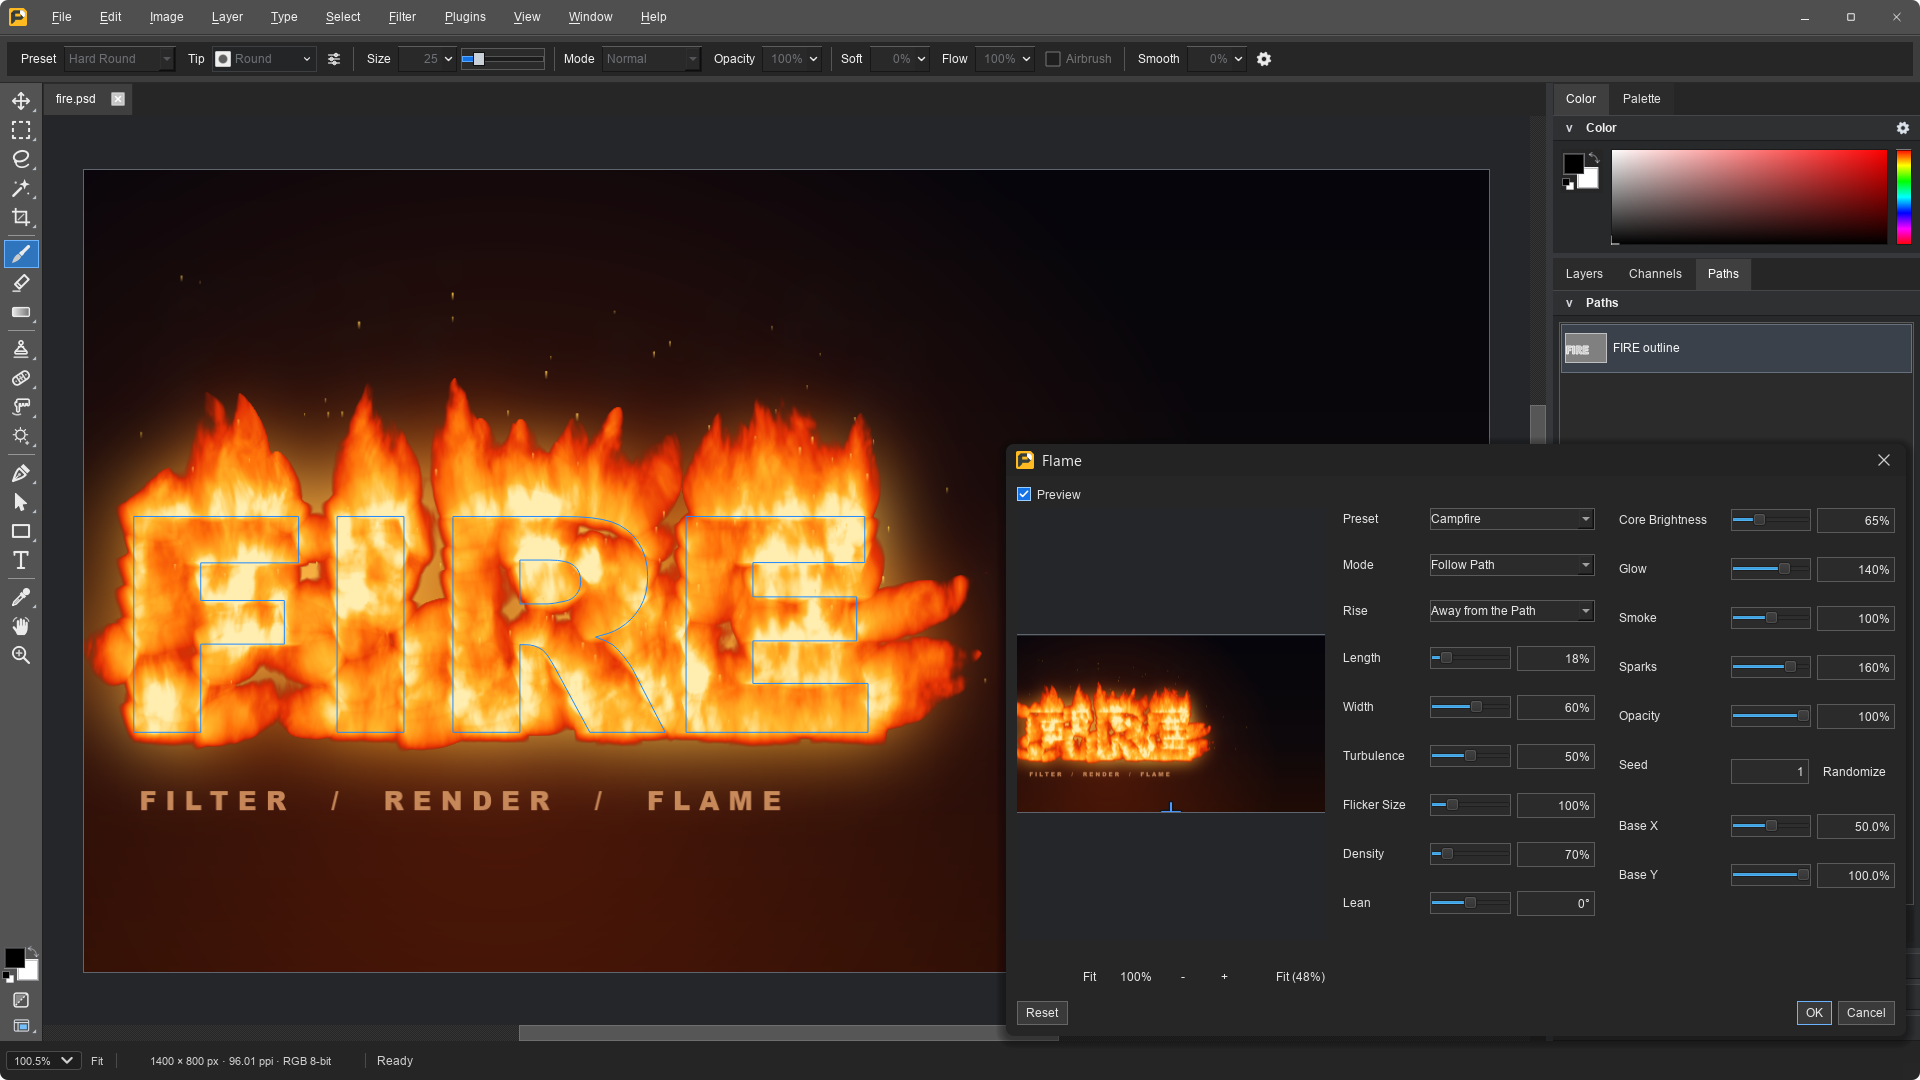
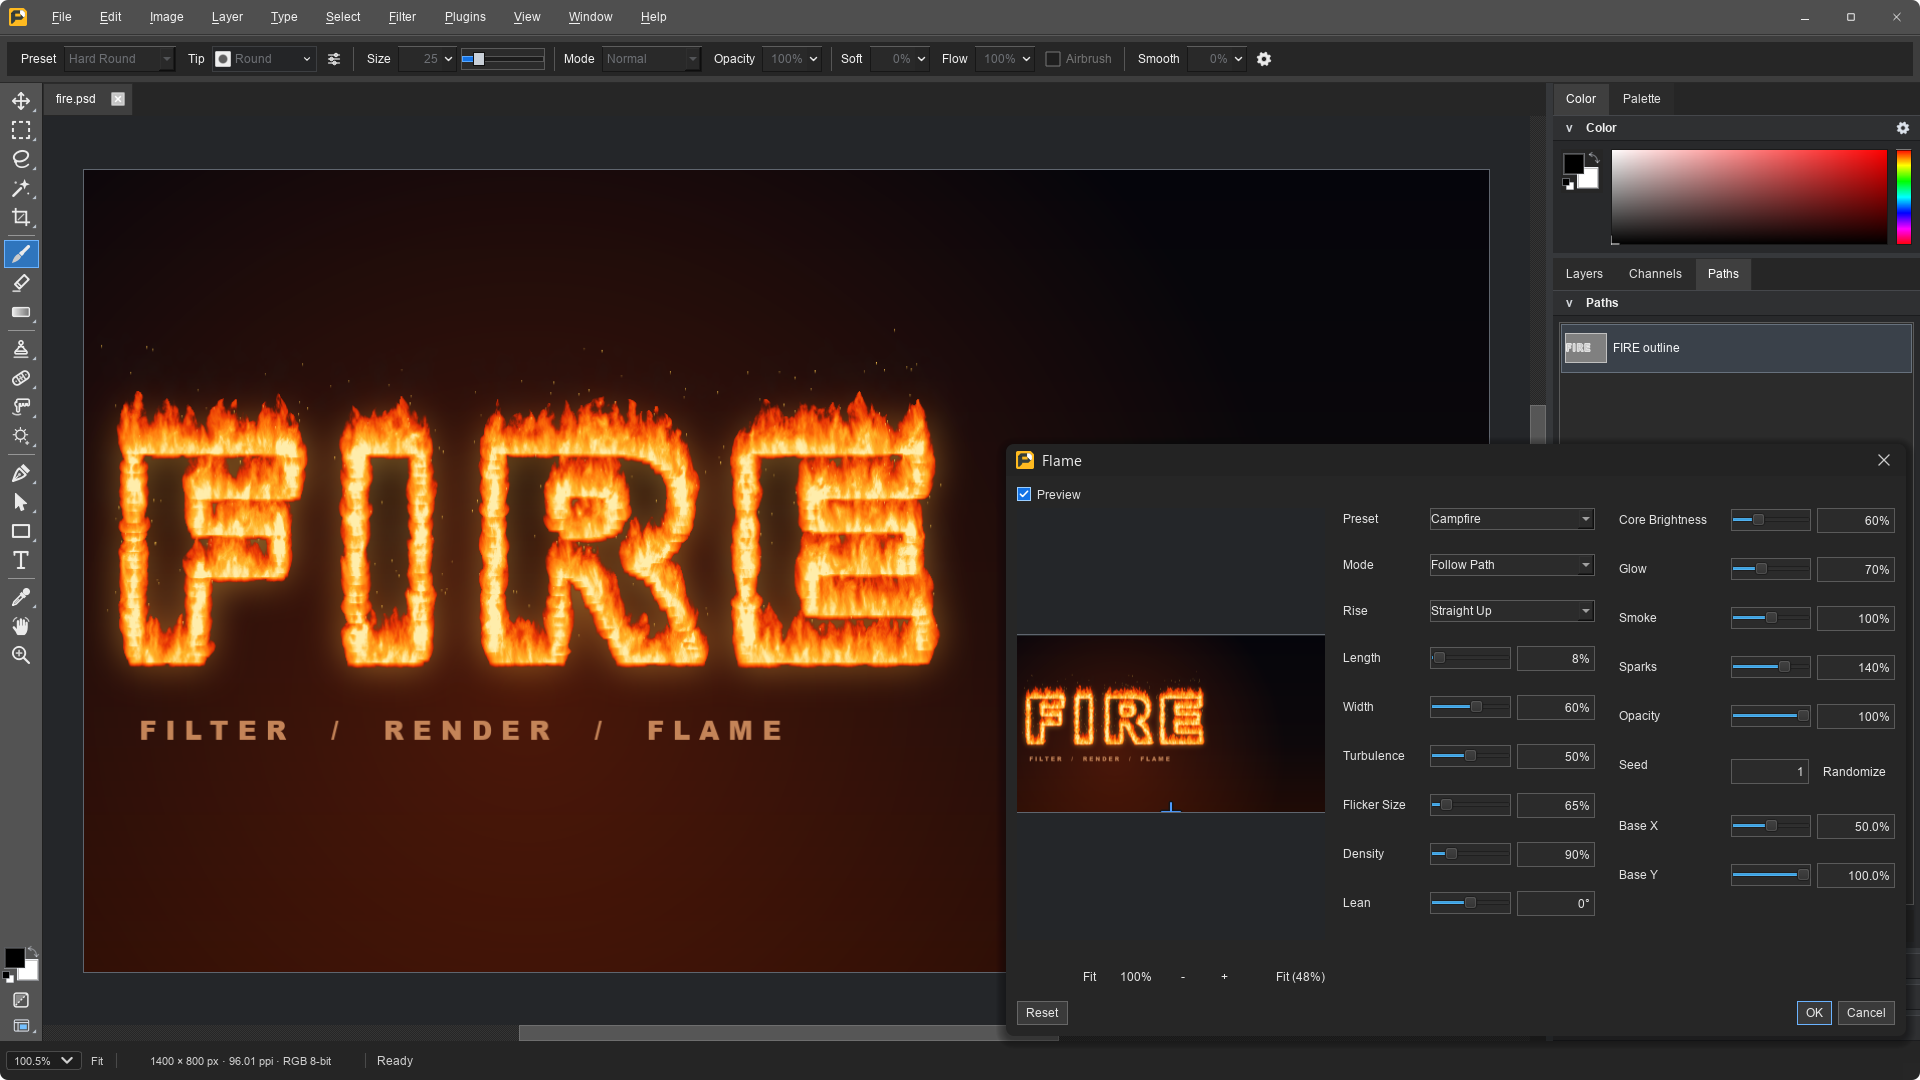
Flame README shot: shorter flames on spaced letters, path outline hidden

Changed region(s): [[0.0312, 0.3361, 0.6562, 0.7639], [0.75, 0.55, 0.7812, 0.5806]]

diff --git a/tests/ui/readme_screenshot_tests_showcase.cpp b/tests/ui/readme_screenshot_tests_showcase.cpp
@@ -444,8 +444,8 @@ bool same_rgba_pixels(const patchy::PixelBuffer& a, const patchy::PixelBuffer& b
 }
 
 // Flame following a path: the word FIRE in charred Arial Black on a night backdrop, its
-// outline saved in the Paths panel, and the Flame dialog previewing Campfire along that
-// path, live on the canvas and in the dialog's own preview.
+// outline saved in the Paths panel (its canvas outline hidden), and the Flame dialog
+// previewing short Campfire flames along that path, live on the canvas and in the dialog.
 void shot_readme_flame() {
   patchy::test::register_test_fonts(patchy::test::TestFontRole::ArialBlack);
   // Offscreen, ariblk.ttf registers as the Black style of Arial (its typographic family).
@@ -459,11 +459,13 @@ void shot_readme_flame() {
     font.setPixelSize(pixel_size);
     return font;
   };
-  const auto letters = arial_black(300);
+  auto letters = arial_black(290);
+  // Spaced so neighboring letters' flames stay apart.
+  letters.setLetterSpacing(QFont::AbsoluteSpacing, 26.0);
   QPainterPath outline;
   outline.addText(QPointF(0.0, 0.0), letters, QStringLiteral("FIRE"));
   const auto glyphs = outline.boundingRect();
-  outline.translate(50.0 - glyphs.left(), 560.0 - glyphs.bottom());
+  outline.translate(50.0 - glyphs.left(), 490.0 - glyphs.bottom());
   const auto box = outline.boundingRect();
 
   QImage night(kFireWidth, kFireHeight, QImage::Format_RGBA8888);
@@ -508,6 +510,11 @@ void shot_readme_flame() {
   auto* paths_list = window.findChild<QListWidget*>(QStringLiteral("pathsList"));
   CHECK(paths_list != nullptr && paths_list->count() == 1);
   paths_list->setCurrentRow(0);
+  // The path stays selected for Follow Path, but its outline would draw over the fire.
+  // View > Show > Target Path is not persisted, so nothing needs restoring.
+  auto* target_path = require_action(window, "viewToggleTargetPathAction");
+  CHECK(target_path->isChecked());
+  target_path->trigger();
   QApplication::processEvents();
 
   const auto layer_pixels = [&window] {
@@ -527,23 +534,24 @@ void shot_readme_flame() {
       CHECK(dialog != nullptr);
       auto* preset = dialog->findChild<QComboBox*>(QStringLiteral("filterFlameColorsCombo"));
       auto* mode = dialog->findChild<QComboBox*>(QStringLiteral("filterFlameModeCombo"));
-      auto* rise = dialog->findChild<QComboBox*>(QStringLiteral("filterFlameRiseCombo"));
       auto* length = dialog->findChild<QSpinBox*>(QStringLiteral("filterLengthSpin"));
       auto* core = dialog->findChild<QSpinBox*>(QStringLiteral("filterCoreSpin"));
+      auto* flicker = dialog->findChild<QSpinBox*>(QStringLiteral("filterFlickerSpin"));
       auto* density = dialog->findChild<QSpinBox*>(QStringLiteral("filterDensitySpin"));
       auto* glow = dialog->findChild<QSpinBox*>(QStringLiteral("filterGlowSpin"));
       auto* sparks = dialog->findChild<QSpinBox*>(QStringLiteral("filterSparksSpin"));
       auto* notice = dialog->findChild<QLabel*>(QStringLiteral("filterDialogNotice"));
-      CHECK(preset != nullptr && mode != nullptr && rise != nullptr && length != nullptr && core != nullptr && density != nullptr &&
-            glow != nullptr && sparks != nullptr && notice != nullptr);
+      CHECK(preset != nullptr && mode != nullptr && length != nullptr && flicker != nullptr && density != nullptr &&
+            core != nullptr && glow != nullptr && sparks != nullptr && notice != nullptr);
       preset->setCurrentIndex(preset->findData(QStringLiteral("classic")));
       mode->setCurrentIndex(mode->findData(QStringLiteral("follow_path")));
-      rise->setCurrentIndex(rise->findData(QStringLiteral("from_path")));
-      length->setValue(18);
-      density->setValue(70);
-      core->setValue(65);
-      glow->setValue(140);
-      sparks->setValue(160);
+      // Short, fine tongues and a dim glow keep the charred letters readable.
+      length->setValue(8);
+      flicker->setValue(65);
+      density->setValue(90);
+      core->setValue(60);
+      glow->setValue(70);
+      sparks->setValue(140);
       QApplication::processEvents();
       CHECK(!notice->isVisibleTo(dialog));
       dialog->resize(900, 560);

diff --git a/README.md b/README.md
@@ -137,7 +137,7 @@ See it in action.  Click an image for the full-size capture.
     <td valign="top" width="50%"><a href="docs/images/screenshots/gmic.png"><img src="docs/images/screenshots/gmic.png" width="460" alt="The G'MIC Filter Library with Rodilius selected among the Artistic filters, its settings beside the list, and a live preview on the right half of a Havana street photo, with the original on the left."></a><br><strong>Nearly 400 G'MIC filters</strong><br>Browse the G'MIC library, adjust the settings, and watch the result render live on your canvas. Here Rodilius runs inside a selection, with the original photo on the left.</td>
   </tr>
   <tr>
-    <td valign="top" width="50%"><a href="docs/images/screenshots/flame.png"><img src="docs/images/screenshots/flame.png" width="460" alt="The word FIRE burning on a night background, with flames rising from the letter outlines, the letters' path in the Paths panel, and the Flame dialog set to Campfire, Follow Path and Away from the Path with its own preview."></a><br><strong>Set your paths on fire</strong><br>Flame grows fire along any path, here the outline of the word FIRE. Pick from 14 presets and tune length, turbulence, glow, smoke and sparks with a live preview.</td>
+    <td valign="top" width="50%"><a href="docs/images/screenshots/flame.png"><img src="docs/images/screenshots/flame.png" width="460" alt="The word FIRE burning on a night background, with short flames licking up from the outlines of dark charred letters, the letters' path in the Paths panel, and the Flame dialog set to Campfire and Follow Path with its own preview."></a><br><strong>Set your paths on fire</strong><br>Flame grows fire along any path, here the outline of the word FIRE. Pick from 14 presets and tune length, turbulence, glow, smoke and sparks with a live preview.</td>
     <td valign="top" width="50%"><a href="docs/images/screenshots/web_export.png"><img src="docs/images/screenshots/web_export.png" width="460" alt="Export for Web making an animated GIF of San Francisco going from afternoon to blue hour, paused on frame 4 of 8, with a split view comparing the original and the 16-color dithered result and the encoded size of every format."></a><br><strong>Export for the web</strong><br>Compare JPEG, WebP, AVIF, JPEG XL, PNG and GIF by their real encoded sizes, with a split view against the original. Layers can become an animated GIF that plays in the preview.</td>
   </tr>
   <tr>

diff --git a/docs/screenshots.md b/docs/screenshots.md
@@ -120,7 +120,7 @@ Click any image to inspect it at full size. These are captures of the real edito
     </td>
 </tr>
 <tr>
-<td align="center" valign="top" colspan="2"><a href="images/screenshots/flame.png"><img src="images/screenshots/flame.png" width="860" alt="The word FIRE burning on a night background, with flames rising from the letter outlines, the letters' path selected in the Paths panel, and the Flame dialog set to Campfire, Follow Path and Away from the Path with its own preview"></a><br><sub>Flame: fire grows along the selected path, here the outline of the word FIRE, previewed live on the canvas and in the dialog. 14 presets, with length, turbulence, glow, smoke and sparks to tune</sub></td>
+<td align="center" valign="top" colspan="2"><a href="images/screenshots/flame.png"><img src="images/screenshots/flame.png" width="860" alt="The word FIRE burning on a night background, with short flames licking up from the outlines of dark charred letters, the letters' path selected in the Paths panel, and the Flame dialog set to Campfire and Follow Path with its own preview"></a><br><sub>Flame: fire grows along the selected path, here the outline of the word FIRE, previewed live on the canvas and in the dialog. 14 presets, with length, turbulence, glow, smoke and sparks to tune</sub></td>
 </tr>
 <tr>
 <td align="center" valign="top" colspan="2"><a href="images/screenshots/layered_import.png"><img src="images/screenshots/layered_import.png" width="860" alt="Why settle for only .psd? An introduction above eight labeled artboards in a 4 by 2 grid: Photoshop game artwork, Affinity game tips, a Krita character painting, a GIMP planet illustration, an OpenRaster city poster, a Paint.NET landscape, a layered TIFF print design, and Aseprite pixel art"></a><br><sub>Eight layer formats, one document: PSD/PSB, Affinity, Krita, GIMP, OpenRaster, Paint.NET, layered TIFF, and Aseprite, each with different artwork and its own imported layer stack. Editable SVG and PDF imports are also supported.</sub></td>

diff --git a/docs/readme-showcase.md b/docs/readme-showcase.md
@@ -137,12 +137,13 @@ a slow push in, lit windows at night; the last layer's name holds it for a secon
 at 16 colors with diffusion (few enough that the dither shows in the split) and Split compare through the exportForWeb settings (restored
 afterward), waits for all eight decoded frames and pauses on frame 4.
 
-The Flame scene (same file) paints FIRE in charred Arial Black (the scene skips without the font) on a
-generated night backdrop, saves the glyph outline as the FIRE outline path and selects it in the Paths panel,
-then opens the real Flame dialog on Campfire with Follow Path and Away from the Path (crisper letters than
-Straight Up, which fills the strokes), lower density and core, and more glow and sparks.
-It waits for the live canvas preview, checks that the far corner stays unburned and that Cancel restores the
-layer, and draws the dialog's caption with `readme_captioned_dialog`, since the native frame is not grabbed.
+The Flame scene (same file) paints FIRE in charred, letter-spaced Arial Black (the scene skips without the
+font) on a generated night backdrop, saves the glyph outline as the FIRE outline path, selects it in the Paths
+panel and hides its canvas outline (View > Show > Target Path, not persisted). The real Flame dialog runs
+Campfire with Follow Path, Straight Up and short, fine tongues (length 8, flicker 65) with a dim glow: longer
+flames or Away from the Path fill the strokes and the word stops reading. It waits for the live canvas
+preview, checks that the far corner stays unburned and that Cancel restores the layer, and draws the dialog's
+caption with `readme_captioned_dialog`, since the native frame is not grabbed.
 
 The Perspective Planes scene drives the real workspace on the CC0 brick wall photo, scaled to
 1400 x 1050. Its one plane is built from the photo's own lines: the top and bottom edges run to
